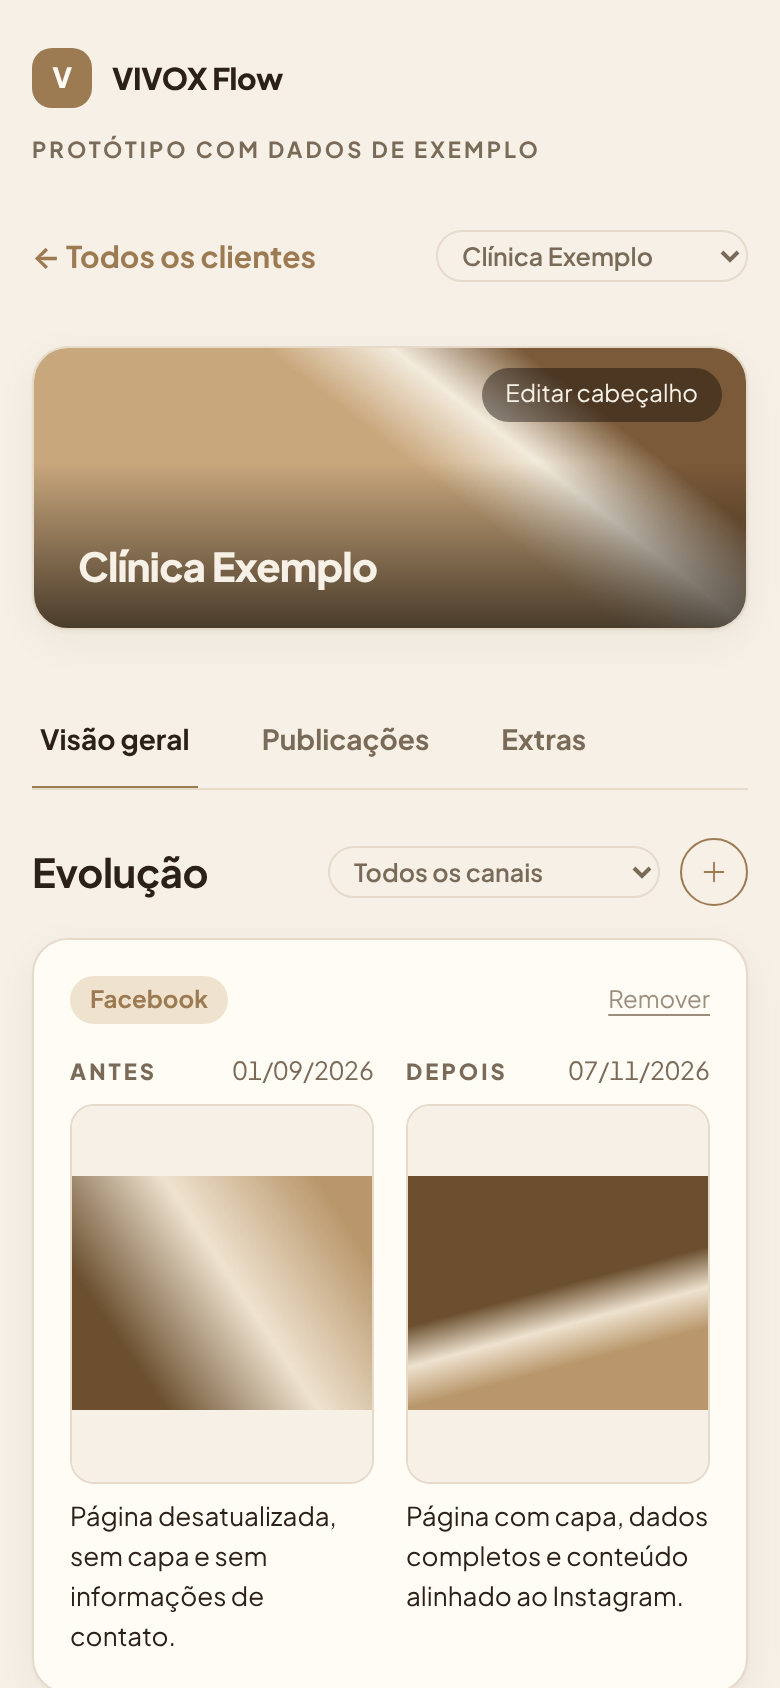
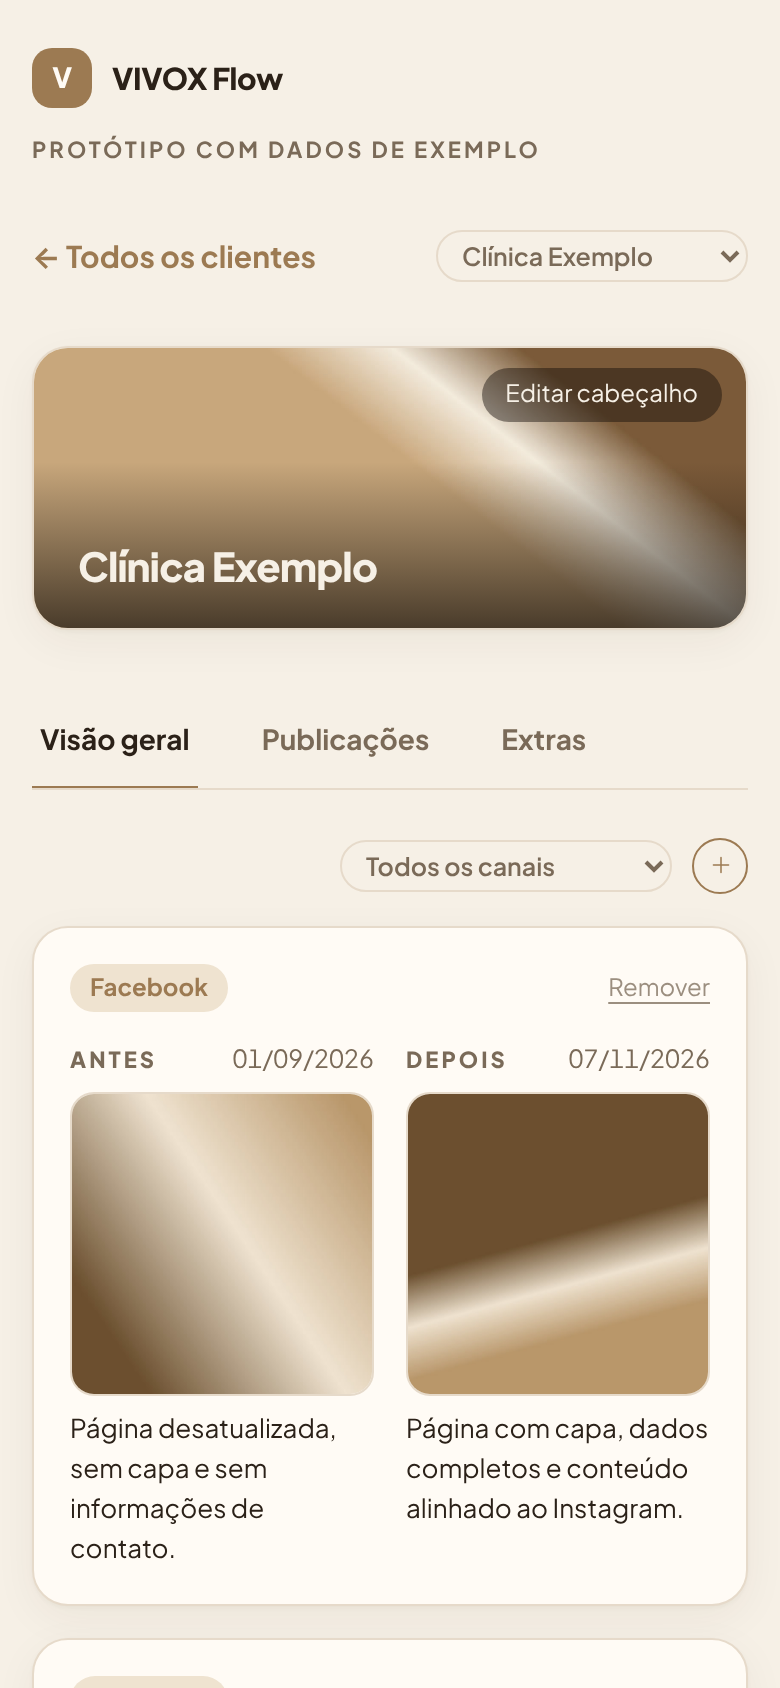
Ajusta o mobile: remove o título, encaixa as fotos e reduz o botão "+"
- Tira a palavra "Evolução" do título da seção e dos textos (agora
  "Novo registro" e mensagens neutras).
- As fotos do antes e depois preenchem a caixa inteira, sem faixas vazias.
- O botão "+" fica menor no celular.
- Atualiza o README e as capturas de desktop e de celular.

Claude-Session: https://claude.ai/code/session_016BHF2HGdzwMGCTLeGBpJ3i

diff --git a/index.html b/index.html
@@ -194,8 +194,8 @@ input[type=search]{font:500 16px var(--font);color:var(--ink);background:var(--b
 .bpair{display:grid;grid-template-columns:1fr 1fr;gap:12px}
 .bs{display:flex;flex-direction:column;gap:6px;min-width:0}
 .bl{font-size:11px;font-weight:800;letter-spacing:.14em;text-transform:uppercase;color:var(--muted)}
-.bimg{aspect-ratio:4/5;border-radius:12px;overflow:hidden;background:var(--bronze-soft);border:1px solid var(--line);display:flex;align-items:center;justify-content:center}
-.bimg img{width:100%;height:100%;object-fit:contain;display:block;background:var(--bg)}
+.bimg{aspect-ratio:1/1;border-radius:12px;overflow:hidden;background:var(--bronze-soft);border:1px solid var(--line);display:flex;align-items:center;justify-content:center}
+.bimg img{width:100%;height:100%;object-fit:cover;display:block}
 .bph{color:var(--muted);font-size:13px}
 .bhd{display:flex;align-items:baseline;justify-content:space-between;gap:8px}
 .bdt{font-size:12.5px;color:var(--muted);font-variant-numeric:tabular-nums}
@@ -300,6 +300,9 @@ h2{font-size:20px;font-weight:700}
   .bimg{aspect-ratio:4/3}
   .grid{grid-template-columns:repeat(auto-fill,minmax(176px,1fr));gap:16px}
 }
+.sh-end{justify-content:flex-end}
+html{-webkit-text-size-adjust:100%;text-size-adjust:100%}
+@media(max-width:640px){.btn.plus{width:28px;height:28px}.btn.plus svg{width:13px;height:13px}}
 </style>
 <style>
 html{color-scheme:light}
@@ -576,11 +579,11 @@ function baHTML(c){
   const canais=[...new Set(c.ba.map(b=>b.canal))], f=state.fBa&&canais.includes(state.fBa)?state.fBa:'Todos';
   const list=c.ba.map((b,i)=>({b,i})).filter(({b})=>f==='Todos'||b.canal===f).sort((x,y)=>y.b.dataContrato.localeCompare(x.b.dataContrato)||(y.i-x.i));
   const side=(l,m,cap,dt,i,k)=>`<div class="bs"><div class="bhd"><span class="bl">${l}</span><span class="bdt">${dataBR(dt)}</span></div>${m&&m.u?`<button type="button" class="bimg" data-bav="${i}:${k}" aria-label="Abrir ${l} em tela cheia"><img src="${m.u}" alt="${l}"></button>`:'<div class="bimg"><span class="bph">Foto</span></div>'}${cap?`<p class="bc">${esc(cap)}</p>`:''}</div>`;
-  return `<div class="sh"><div><h2>Evolução</h2></div>
-    <div class="sel">${canais.length>1?`<select id="fbac" aria-label="Canal"><option value="Todos">Todos os canais</option>${canais.map(x=>`<option value="${esc(x)}" ${x===f?'selected':''}>${esc(x)}</option>`).join('')}</select>`:''}<button class="btn soft plus" id="addba" aria-label="Adicionar evolução" title="Adicionar evolução"><svg viewBox="0 0 24 24" width="16" height="16" aria-hidden="true"><path d="M12 5v14M5 12h14" stroke="currentColor" stroke-width="1.4" stroke-linecap="round" fill="none"/></svg></button></div></div>
+  return `<div class="sh sh-end">
+    <div class="sel">${canais.length>1?`<select id="fbac" aria-label="Canal"><option value="Todos">Todos os canais</option>${canais.map(x=>`<option value="${esc(x)}" ${x===f?'selected':''}>${esc(x)}</option>`).join('')}</select>`:''}<button class="btn soft plus" id="addba" aria-label="Adicionar" title="Adicionar"><svg viewBox="0 0 24 24" width="16" height="16" aria-hidden="true"><path d="M12 5v14M5 12h14" stroke="currentColor" stroke-width="1.4" stroke-linecap="round" fill="none"/></svg></button></div></div>
   ${list.length?`<div class="bagrid">${list.map(({b,i})=>`<div class="card bacard"><div class="bah"><span class="tag">${esc(b.canal)}</span><button class="rmlink" data-rmba="${i}">Remover</button></div>
     <div class="bpair">${side('Antes',b.antes,b.legAntes,b.dataContrato,i,0)}${side('Depois',b.depois,b.legDepois,b.dataAtual,i,1)}</div></div>`).join('')}</div>`
-  :`<div class="card empty">Nenhuma evolução ainda. Use o botão + para começar.</div>`}`;
+  :`<div class="card empty">Nenhum registro ainda. Use o botão + para começar.</div>`}`;
 }
 function baViewHTML(c){
   const v=state.baView, b=c.ba[v.i], k=v.side, m=k?b.depois:b.antes, cap=k?b.legDepois:b.legAntes, dt=k?b.dataAtual:b.dataContrato;
@@ -598,15 +601,15 @@ function tConfirmHTML(c){
 }
 function baConfirmHTML(){
   return `<div class="lb conf" id="bcf" role="alertdialog" aria-label="Confirmar remoção"><div class="lbc cfc"><div class="lbi"><h3>Tem certeza que quer remover?</h3>
-    <p style="color:var(--muted)">Esta evolução será removida. Essa ação não pode ser desfeita.</p></div>
+    <p style="color:var(--muted)">Este registro será removido. Essa ação não pode ser desfeita.</p></div>
     <div class="lbn"><button class="btn ghost" id="bcf_no">Cancelar</button><button class="btn warn" id="bcf_yes" style="margin-left:auto">Sim, remover</button></div></div></div>`;
 }
 function openAddBA(c){
   closeAdd();
   let antes=null, depois=null;
   const el=document.createElement('div'); el.className='lb'; el.id='addm';
-  el.innerHTML=`<form class="lbc" id="baform" novalidate aria-label="Adicionar evolução">
-    <div class="lbi"><h3>Adicionar evolução</h3></div>
+  el.innerHTML=`<form class="lbc" id="baform" novalidate aria-label="Novo registro">
+    <div class="lbi"><h3>Novo registro</h3></div>
     <div class="addb">
       <label class="fl" id="b_cl"><span class="label">Canal (obrigatório)</span><select id="b_c"><option value="" selected disabled>Escolha o canal</option>${c.canaisBA.map(x=>`<option value="${esc(x)}">${esc(x)}</option>`).join('')}<option value="__novo">+ Criar novo canal</option></select></label>
       <label class="fl" id="b_nw" hidden><span class="label">Nome do novo canal</span><input id="b_novo" type="text" placeholder="Ex.: LinkedIn"></label>

diff --git a/README.md b/README.md
@@ -1,6 +1,6 @@
 # VIVOX Flow: página Acompanhamento (protótipo)
 
-Protótipo navegável da página **Acompanhamento** do VIVOX Flow. A ideia é reunir, em um lugar só, tudo o que foi feito para um cliente: a evolução (antes e depois), as publicações do Instagram e os extras (pastas de fotos e vídeos).
+Protótipo navegável da página **Acompanhamento** do VIVOX Flow. A ideia é reunir, em um lugar só, tudo o que foi feito para um cliente: o antes e depois, as publicações do Instagram e os extras (pastas de fotos e vídeos).
 
 É um único arquivo, `index.html`, sem instalação. A mesma página funciona no celular e no computador: no celular as seções ficam empilhadas, no computador elas se espalham em mais colunas.
 
@@ -47,19 +47,19 @@ As fotos das capturas são imagens de exemplo geradas só para teste.
 **Página do cliente.** No topo, o cabeçalho e, abaixo, três abas.
 
 - **Cabeçalho.** Foto de cabeçalho com o nome da empresa sobre ela. O texto pequeno "Editar cabeçalho" abre um formulário com o nome da empresa e a foto. A foto pode ser ajustada arrastando e com um controle de zoom lento e suave. Há uma área "Anteriores" para voltar a fotos já usadas (as 12 mais recentes). Sem foto, o topo mostra só o avatar com as iniciais e o nome.
-- **Visão geral (Evolução).** Antes e depois lado a lado, um cartão por caso. Detalhes abaixo.
+- **Visão geral.** Antes e depois lado a lado, um cartão por caso, sem título de seção. Detalhes abaixo.
 - **Publicações.** Gráfico de publicações por mês e lista de publicações do Instagram. Detalhes abaixo.
 - **Extras.** Pastas de arquivos (fotos e vídeos) sobre um assunto. Detalhes abaixo.
 
-### Evolução
+### Visão geral (antes e depois)
 
-- Botão "+" (círculo pequeno) abre o formulário de nova evolução.
+- Botão "+" (círculo pequeno) abre o formulário "Novo registro". A seção não tem título.
 - Campos obrigatórios: **canal**, **data da contratação**, **foto do antes** e **foto do depois**. Se faltar algo, o formulário não salva, avisa o que falta e destaca o campo.
 - Canais: Google Meu Negócio, Instagram e Facebook. A opção "+ Criar novo canal" continua disponível.
 - Data da contratação: campo para digitar (dd/mm/aaaa, as barras entram sozinhas) com três menus ao lado (Dia, Mês e Ano), que andam juntos com o campo.
 - A data do **Depois** é sempre a de hoje, preenchida sozinha no dia em que o registro é salvo.
 - Legenda opcional em cada lado (por exemplo, "como estava").
-- Clicar em uma foto abre em tela cheia, com uma seta transparente ao lado para alternar entre Antes e Depois. Sair: clicar na área escura, no × ou Esc. As setas do teclado também funcionam.
+- As fotos preenchem a caixa inteira (a imagem é recortada para caber). Clicar em uma foto abre ela inteira em tela cheia, com uma seta transparente ao lado para alternar entre Antes e Depois. Sair: clicar na área escura, no × ou Esc. As setas do teclado também funcionam.
 - Filtro "Todos os canais" e ordem pela data de contratação, do mais recente para o mais antigo.
 - "Remover" em cada cartão pede confirmação.
 
@@ -123,10 +123,10 @@ Os dados de exemplo ficam no começo do script, na lista `CLIENTS` dentro de `in
 | `metricas` | Marcador: qualquer valor diferente de `null` libera as abas. Com `null`, aparece "ainda não tem dados". O bloco de métricas por canal foi removido. |
 | `pub` | `{ pacote, semanal, meses }`: texto do pacote, publicações por semana e metas por mês. |
 | `posts` | Publicações: `[tipo, 'AAAA-MM-DD', link, alcance, envios, visualizacoes, curtidas, comentarios, salvamentos]`. |
-| `ba` | Evolução: `{ canal, antes:{u}, depois:{u}, legAntes, legDepois, dataContrato, dataAtual }`. |
+| `ba` | Antes e depois: `{ canal, antes:{u}, depois:{u}, legAntes, legDepois, dataContrato, dataAtual }`. |
 | `port` | Extras: `{ titulo, anoIni, mesIni, anoFim, mesFim, fotos:[{u,v}], capa, capaFora, desc, showDesc }`. Hoje o início e o fim são iguais (uma data só). |
 | `hdrFoto`, `hdrHist` | Foto de cabeçalho `{u,x,y,z}` e as anteriores. |
-| `canaisBA` | Canais disponíveis na Evolução. |
+| `canaisBA` | Canais disponíveis no antes e depois. |
 
 ### Como mudar o id de um cliente
 
@@ -146,7 +146,7 @@ O script depende de ids fixos nos elementos (por exemplo `#busca`, `#addba`, `#a
 
 1. **Foto de cabeçalho já existente.** Puxar do sistema atual a foto de cabeçalho de cada cliente, para não precisar enviar de novo. No formulário "Editar cabeçalho" já existe a opção "Usar a foto que já existe no sistema", desativada, esperando essa integração.
 2. **Cadastro de clientes.** Conectar a lista de clientes ao cadastro da plataforma, para puxar as informações automaticamente (nome, categoria e foto). Hoje a lista é de exemplo.
-3. **Salvar os dados.** Hoje tudo vive só na memória da página. Falta gravar clientes, evoluções, publicações, extras, descrições, capas, ordem dos arquivos e cabeçalhos.
+3. **Salvar os dados.** Hoje tudo vive só na memória da página. Falta gravar clientes, registros de antes e depois, publicações, extras, descrições, capas, ordem dos arquivos e cabeçalhos.
 4. **Envio de arquivos.** As fotos e vídeos são lidos no navegador. No sistema real precisam ser enviados e guardados no servidor, com o limite de 500 MB por arquivo, e as miniaturas e a reprodução de vídeo devem sair de endereços do servidor.
 5. **Publicações do Instagram.** A lista vem de CSV. O formato está na seção "Publicações". A contagem por mês é feita no navegador a partir da data de cada publicação.
 
